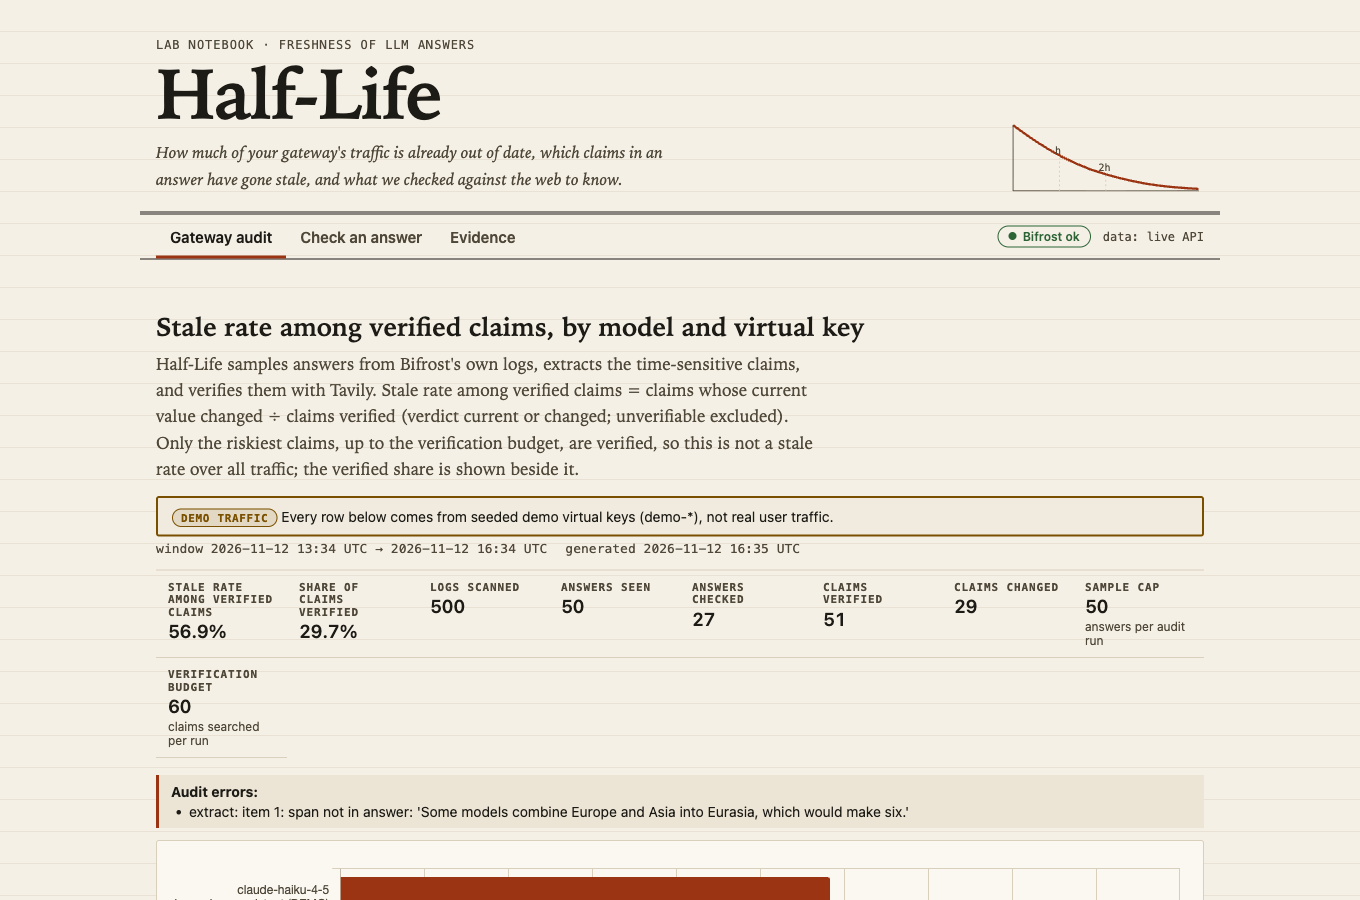
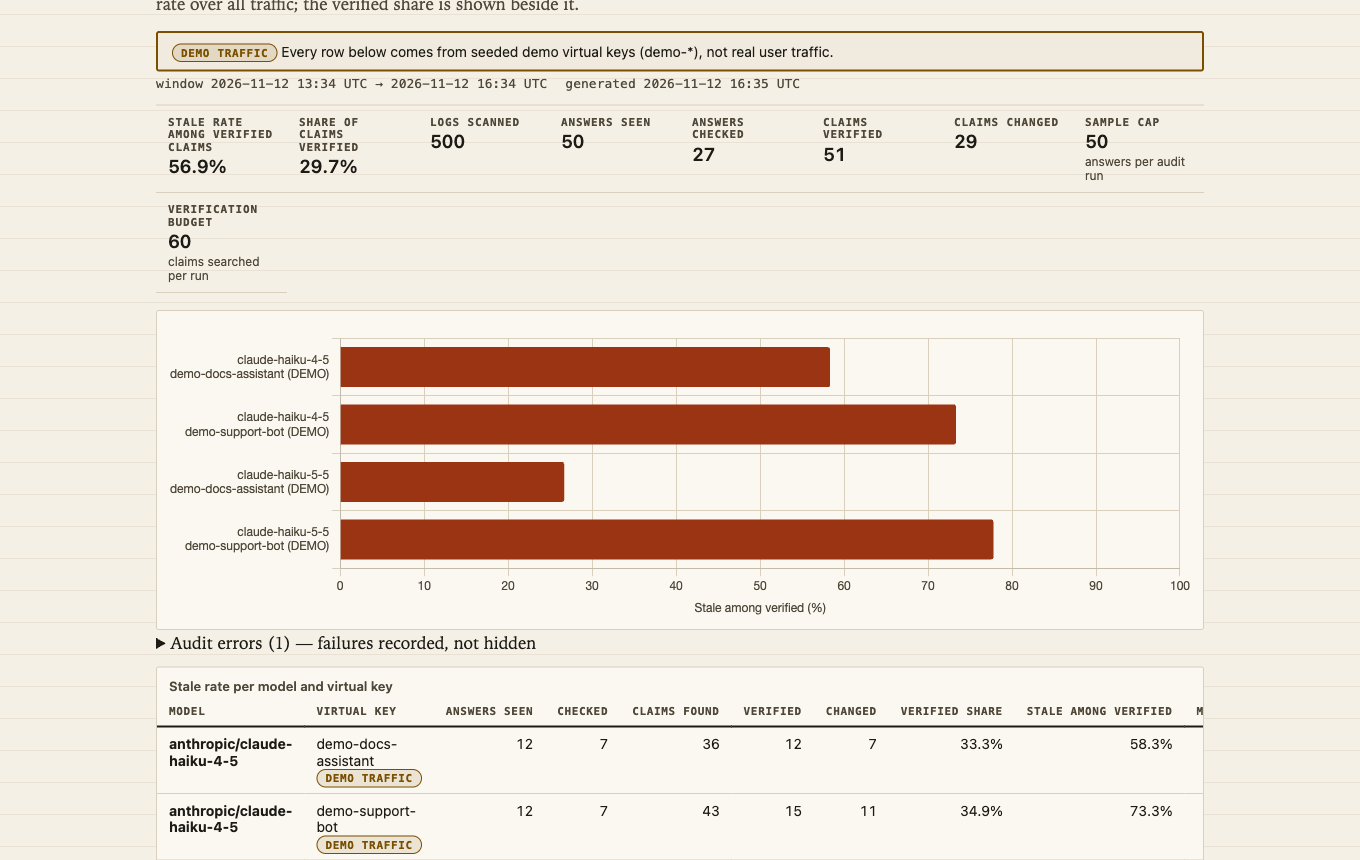
docs: How it works section and a chart-first Gateway screenshot
Audit errors are now in a collapsed details element under the chart.

Changed region(s): [[0.0926, 0.0, 0.8956, 1.0], [0.5868, 0.1209, 0.6485, 0.1814]]

diff --git a/web/app.js b/web/app.js
@@ -654,9 +654,11 @@ function renderGateway(summary) {
       stat("Claims changed", fmt.num(changed)),
       stat("Sample cap", fmt.num(summary.sample_cap), "answers per audit run"),
       stat("Verification budget", fmt.num(summary.verification_budget), "claims searched per run")),
-    errorList("Audit errors:", summary.errors),
     rows.length ? chartSlot("gateway-chart", "Bar chart of stale rate by model and virtual key") : stateBox("", "No traffic in this window", "The audit found no gateway logs to sample."),
     charted.length < rows.length ? h("p", { class: "hint" }, `${rows.length - charted.length} slice(s) not charted: nothing verified there.`) : null,
+    (summary.errors || []).length ? h("details", { class: "audit-errors" },
+      h("summary", null, `Audit errors (${summary.errors.length}) — failures recorded, not hidden`),
+      errorList("", summary.errors)) : null,
     rows.length ? table("Stale rate per model and virtual key",
       ["Model", "Virtual key", "Answers seen", "Checked", "Claims found", "Verified", "Changed", "Verified share", "Stale among verified", "Mean score"]
         .map((label, i) => ({ label, num: i >= 2 })),

diff --git a/README.md b/README.md
@@ -18,6 +18,36 @@ Demo video: <link>
   until P(stale) reaches 5% — a software-version answer gets **6.2 days** (fitted half-life 83 days). Experimental
   because the half-lives are not calibrated (see Limits).
 
+## How it works
+
+```mermaid
+flowchart LR
+    A["1 · Extract claims<br/>+ self-estimated risk"] --> B["2 · Rank under<br/>a budget"]
+    B --> C["3 · Tavily search<br/>open web + official site"]
+    C --> D["4 · Judge<br/>evidence only"]
+    D --> E["5 · Quote check<br/>enforced in code"]
+    E --> F[("6 · Fact ledger")]
+    F --> G["7 · Half-life fit<br/>per volatility class"]
+    G -.->|fallback ranking, TTL| B
+```
+
+1. **Extract + self-estimated risk.** One Claude Haiku call lists the time-sensitive claims as exact spans of the
+   answer (any span not found verbatim is discarded) and, in the same call, estimates the probability each claim is
+   outdated given the answer's as-of date.
+2. **Rank under a budget.** Claims are verified in order of that probability, up to the budget; the half-life
+   P(stale) = 1 − 2^(−age/h) is the fallback when the model gives no estimate. Timeless claims are never searched.
+3. **Tavily search.** Two searches per claim through a Bifrost relay — the open web with a recency filter, and the
+   claim's official site when one is known — with a disk cache so repeat evidence costs no credits.
+4. **Judge.** A second Haiku call labels the claim current, changed or unverifiable from the retrieved text only,
+   preferring official, then newer, evidence when sources disagree, and treating evidence as data, never instructions.
+5. **Quote check, enforced in code (the guard against hallucinated verdicts).** Every supporting quote must appear
+   verbatim in the evidence for the URL it cites, must share a substantive token with the claim, and a corrected value
+   is shown only if a verified quote states it; otherwise the verdict falls back to unverifiable.
+6. **Fact ledger.** Each verified outcome (claim class, age, changed or not) is stored in SQLite by the gateway audit,
+   with the request's model and virtual key, which is where stale rates per slice come from.
+7. **Half-life fit.** Per volatility class, a MAP fit over interval-censored outcomes (did it change within `age`?)
+   updates the half-life used for fallback ranking and the experimental cache TTL.
+
 ## Quickstart (stock Bifrost, base profile, no Redis)
 
 Prerequisites: Python 3.11+, [uv](https://docs.astral.sh/uv/), Node.js 18+ (for `npx`), an Anthropic API key and a
